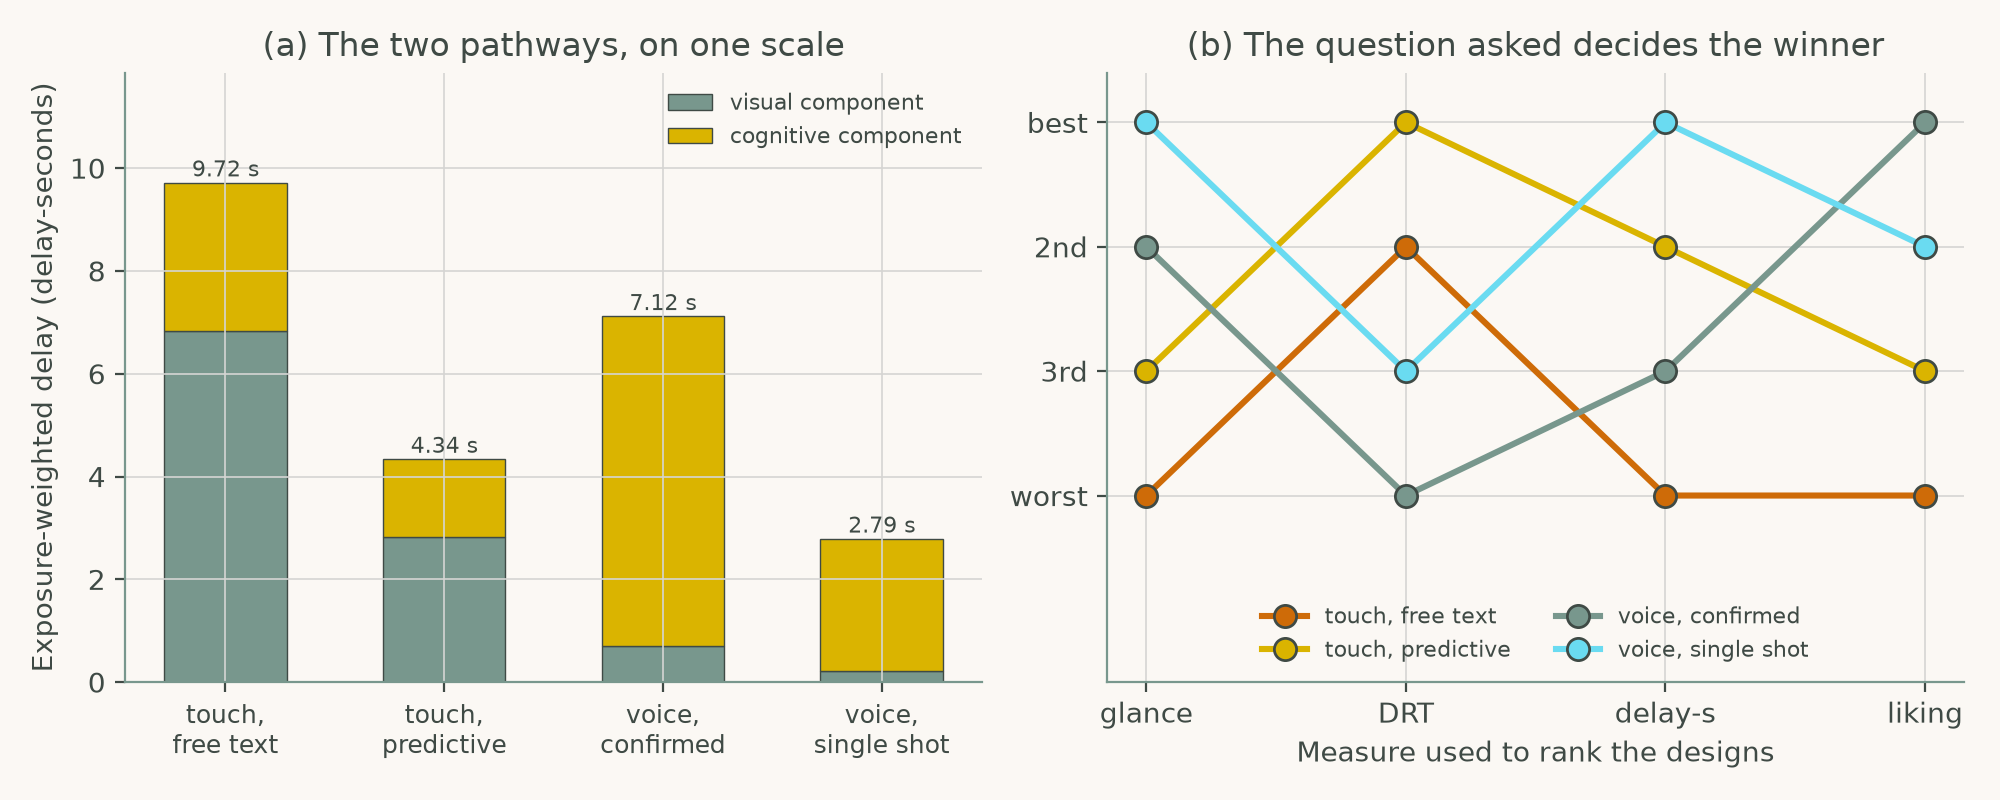
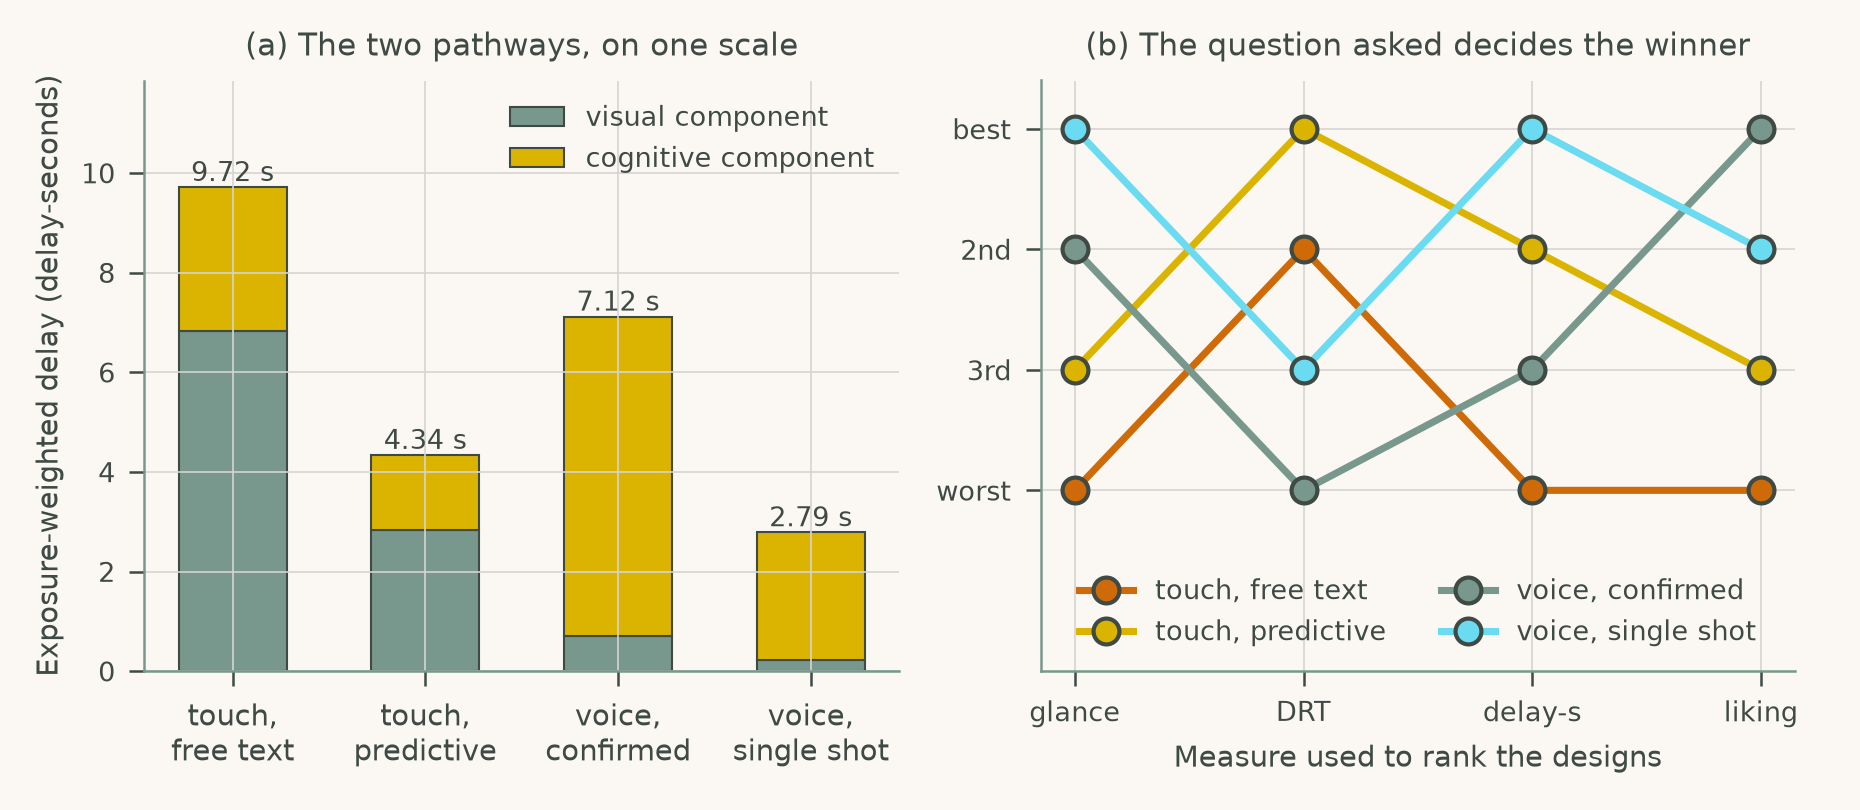
Redraw Chapter 3 figures at print size with readable type

diff --git a/chapters/ch03_distraction/cs2_warning_overload.py b/chapters/ch03_distraction/cs2_warning_overload.py
@@ -189,40 +189,44 @@ plt.rcParams.update({
     "xtick.color": INK, "ytick.color": INK,
     "figure.facecolor": PAPER, "axes.facecolor": PAPER,
     "axes.spines.top": False, "axes.spines.right": False,
-    "axes.grid": True, "grid.color": GRID, "grid.linewidth": 0.6})
-fig, (a1, a2) = plt.subplots(1, 2, figsize=(10, 4))
+    "axes.grid": True, "grid.color": GRID, "grid.linewidth": 0.4,
+    "font.size": 7, "axes.titlesize": 7.5, "axes.labelsize": 7, "legend.fontsize": 6.5,
+    "xtick.labelsize": 6.5, "ytick.labelsize": 6.5, "axes.linewidth": 0.6,
+    "xtick.major.width": 0.6, "ytick.major.width": 0.6, "lines.linewidth": 1.2,
+    "legend.frameon": False})
+fig, (a1, a2) = plt.subplots(1, 2, figsize=(6.2, 2.7))
 lab = ["as built", "retuned\nthresholds", "retuned +\narbitration"]
 x = np.arange(3)
 
 bars = a1.bar(x, [r["warn_h"] for r in res], 0.46, color=GOLD, edgecolor=INK, lw=0.5,
               label="warnings per hour (left)")             # (a) fewer, better warnings
-a1.bar_label(bars, fmt="%.2f", fontsize=8, padding=2)
+a1.bar_label(bars, fmt="%.2f", fontsize=6.5, padding=1.6)
 a1b = a1.twinx()
-l1, = a1b.plot(x, [r["ppv"] for r in res], "o-", color=RUST, mec=INK, lw=2, ms=8,
+l1, = a1b.plot(x, [r["ppv"] for r in res], "o-", color=RUST, mec=INK, lw=1.6, ms=6.2,
                label="pooled predictive value (right)")
-l2, = a1b.plot(x, [r["comply"] for r in res], "s--", color=SAGE, mec=INK, lw=2,
-               ms=7, label="compliance (right)")
+l2, = a1b.plot(x, [r["comply"] for r in res], "s--", color=SAGE, mec=INK, lw=1.6,
+               ms=5.4, label="compliance (right)")
 for xi, r in enumerate(res):
-    a1b.annotate(f"{r['ppv']:.2f}", (xi, r["ppv"]), xytext=(0, -15),
-                 textcoords="offset points", ha="center", fontsize=8, color=RUST,
+    a1b.annotate(f"{r['ppv']:.2f}", (xi, r["ppv"]), xytext=(0, -11.2),
+                 textcoords="offset points", ha="center", fontsize=6.5, color=RUST,
                  bbox=dict(fc=PAPER, ec="none", pad=0.6))
-    a1b.annotate(f"{r['comply']:.2f}", (xi, r["comply"]), xytext=(0, 9),
-                 textcoords="offset points", ha="center", fontsize=8, color=SAGE,
+    a1b.annotate(f"{r['comply']:.2f}", (xi, r["comply"]), xytext=(0, 6.7),
+                 textcoords="offset points", ha="center", fontsize=6.5, color=SAGE,
                  bbox=dict(fc=PAPER, ec="none", pad=0.6))
-a1.set_xticks(x, lab, fontsize=9)
+a1.set_xticks(x, lab, fontsize=7)
 a1.set(ylabel="Warnings presented per hour", ylim=(0, 6.6),
        title="(a) Fewer warnings, each worth more")
 a1b.set(ylabel="Predictive value / compliance", ylim=(0, 1.0))
 a1b.spines["right"].set_visible(True); a1b.grid(False)
-a1.legend(handles=[bars, l1, l2], fontsize=8, frameon=False, loc="upper right")
+a1.legend(handles=[bars, l1, l2], fontsize=6.5, loc="upper right")
 
 rate = [100 * r["handled"] / r["conflicts"] for r in res]      # (b) conflicts handled
 bars = a2.bar(x, rate, 0.5, color=[RUST, GOLD, SAGE], edgecolor=INK, lw=0.5)
-a2.bar_label(bars, fmt="%.1f%%", fontsize=8, padding=3)
-a2.set_xticks(x, lab, fontsize=9)
+a2.bar_label(bars, fmt="%.1f%%", fontsize=6.5, padding=2.3)
+a2.set_xticks(x, lab, fontsize=7)
 a2.set(ylabel="Genuine conflicts braked for in time (%)", ylim=(0, max(rate) * 1.25),
        title="(b) The outcome an alert count cannot see")
 
 fig.tight_layout()
-fig.savefig("fig03_07_cs2_alerts.png", dpi=200)
+fig.savefig("fig03_07_cs2_alerts.png", dpi=300)
 print("\n   figure written to fig03_07_cs2_alerts.png")

diff --git a/chapters/ch03_distraction/cs1_infotainment_distraction.py b/chapters/ch03_distraction/cs1_infotainment_distraction.py
@@ -154,8 +154,12 @@ plt.rcParams.update({
     "xtick.color": INK, "ytick.color": INK,
     "figure.facecolor": PAPER, "axes.facecolor": PAPER,
     "axes.spines.top": False, "axes.spines.right": False,
-    "axes.grid": True, "grid.color": GRID, "grid.linewidth": 0.6})
-fig, (a1, a2) = plt.subplots(1, 2, figsize=(10, 4))
+    "axes.grid": True, "grid.color": GRID, "grid.linewidth": 0.4,
+    "font.size": 7, "axes.titlesize": 7.5, "axes.labelsize": 7, "legend.fontsize": 6.5,
+    "xtick.labelsize": 6.5, "ytick.labelsize": 6.5, "axes.linewidth": 0.6,
+    "xtick.major.width": 0.6, "ytick.major.width": 0.6, "lines.linewidth": 1.2,
+    "legend.frameon": False})
+fig, (a1, a2) = plt.subplots(1, 2, figsize=(6.2, 2.7))
 
 x = np.arange(len(NAMES))                                      # (a) two pathways
 vis = [float((df[df.design == n]["teort"] *
@@ -166,24 +170,24 @@ a1.bar(x, vis, 0.56, color=SAGE, edgecolor=INK, lw=0.5, label="visual component"
 a1.bar(x, cog, 0.56, bottom=vis, color=GOLD, edgecolor=INK, lw=0.5,
        label="cognitive component")
 for xi, (v, c) in enumerate(zip(vis, cog)):
-    a1.text(xi, v + c + 0.12, f"{v + c:.2f} s", ha="center", fontsize=8)
-a1.set_xticks(x, [n.replace(", ", ",\n") for n in NAMES], fontsize=9)
+    a1.text(xi, v + c + 0.12, f"{v + c:.2f} s", ha="center", fontsize=6.5)
+a1.set_xticks(x, [n.replace(", ", ",\n") for n in NAMES], fontsize=7)
 a1.set(ylabel="Exposure-weighted delay (delay-seconds)",
        ylim=(0, max(np.array(vis) + np.array(cog)) * 1.22),
        title="(a) The two pathways, on one scale")
-a1.legend(fontsize=8, frameon=False, loc="upper right")
+a1.legend(fontsize=6.5, loc="upper right")
 
 rks = {"glance": rk_vm, "DRT": rk_drt, "delay-s": rk_tot, "liking": rk_pref}
 for n, c in zip(NAMES, [RUST, GOLD, SAGE, SKY]):               # (b) rank by measure
-    a2.plot(range(len(rks)), [rks[k].index(n) + 1 for k in rks], "o-", lw=2.2,
-            ms=8, color=c, mec=INK, label=n)
+    a2.plot(range(len(rks)), [rks[k].index(n) + 1 for k in rks], "o-", lw=1.7,
+            ms=6.2, color=c, mec=INK, label=n)
 a2.set_xticks(range(len(rks)), list(rks))
 a2.set_yticks([1, 2, 3, 4], ["best", "2nd", "3rd", "worst"])
 a2.set_ylim(5.5, 0.6)
 a2.set(xlabel="Measure used to rank the designs",
        title="(b) The question asked decides the winner")
-a2.legend(fontsize=8, frameon=False, loc="lower center", ncol=2)
+a2.legend(fontsize=6.5, loc="lower center", ncol=2)
 
 fig.tight_layout()
-fig.savefig("fig03_06_cs1_interfaces.png", dpi=200)
+fig.savefig("fig03_06_cs1_interfaces.png", dpi=300)
 print("\n   figure written to fig03_06_cs1_interfaces.png")
